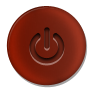
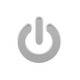
image updates
gestures

diff --git a/Resources/views/gesture.js b/Resources/views/gesture.js
@@ -18,8 +18,22 @@ Views.gesture = function(win) {
 		top:"0dp"
 	});
 	
+	var up_arrow_mask = Titanium.UI.createView({
+		backgroundImage:"images/gestures/gesture_arrow_up_down.png",
+		width:"30dp",
+		height:"135dp",
+		top:"0dp"
+	});
+	
 	var down_arrow = Titanium.UI.createView({
 		backgroundImage:"images/gestures/gesture_arrow_down.png",
+		width:"30dp",
+		height:"135dp",
+		bottom:"0dp"		
+	});
+	
+	var down_arrow_mask = Titanium.UI.createView({
+		backgroundImage:"images/gestures/gesture_arrow_down_down.png",
 		width:"30dp",
 		height:"135dp",
 		bottom:"0dp"		
@@ -32,8 +46,22 @@ Views.gesture = function(win) {
 		left:"0dp"		
 	});
 	
+	var left_arrow_mask = Titanium.UI.createView({
+		backgroundImage:"images/gestures/gesture_arrow_left_down.png",
+		height:"30dp",
+		width:"135dp",
+		left:"0dp"		
+	});
+	
 	var right_arrow = Titanium.UI.createView({
 		backgroundImage:"images/gestures/gesture_arrow_right.png",
+		height:"30dp",
+		width:"135dp",
+		right:"0dp"
+	});
+	
+	var right_arrow_mask = Titanium.UI.createView({
+		backgroundImage:"images/gestures/gesture_arrow_right_down.png",
 		height:"30dp",
 		width:"135dp",
 		right:"0dp"
@@ -121,6 +149,11 @@ Views.gesture = function(win) {
 	}
 	
 	arrows.addEventListener('doubletap', function () {
+		animateGesture(up_arrow_mask);
+		animateGesture(down_arrow_mask);
+		animateGesture(left_arrow_mask);
+		animateGesture(right_arrow_mask);
+		
 		return Controllers.remote.button("select")();
 	});
 	
@@ -144,18 +177,27 @@ Views.gesture = function(win) {
 		}
 	}
 	
+	function animateGesture(arrow_mask) {
+		arrows.add(arrow_mask);
+		arrow_mask.animate({opacity:0,duration:1000}, function() {
+			arrows.remove(arrow_mask);
+			arrow_mask.opacity = 1;
+		});	
+	}
+	
 	function doGesture () {
 		
 		var x_diff = touch_x_stop - touch_x_start;
 		var y_diff = touch_y_stop - touch_y_start;
 		
 		if (underThreshold(y_diff) && !diffPositive(x_diff) && shortSwipe(x_diff)) {
+			animateGesture(left_arrow_mask);
 			return Xbmc.action("left")();
 		}
 		
 		if (underThreshold(y_diff) && !diffPositive(x_diff) && !shortSwipe(x_diff)) {
 			// return Xbmc.action("left")();
-			
+			animateGesture(left_arrow_mask);
 			function doThreeLeft () {
 				setTimeout(Xbmc.action("left"), 1);
 	      setTimeout(Xbmc.action("left"), 250);
@@ -165,11 +207,13 @@ Views.gesture = function(win) {
 		}
 		
 		if (underThreshold(y_diff) && diffPositive(x_diff) && shortSwipe(x_diff)) {
+			animateGesture(right_arrow_mask);
 			return Xbmc.action("right")();
 		}		
 		
 		if (underThreshold(y_diff) && diffPositive(x_diff) && !shortSwipe(x_diff)) {
 			// return Xbmc.action("right")();
+			animateGesture(right_arrow_mask);
 			
 			function doThreeRight () {
 				setTimeout(Xbmc.action("right"), 1);
@@ -180,12 +224,14 @@ Views.gesture = function(win) {
 		}
 		
 		if (underThreshold(x_diff) && !diffPositive(y_diff) && shortSwipe(y_diff)) {
+			animateGesture(up_arrow_mask);
 			return Xbmc.action("up")();
 		}
 		
 		if (underThreshold(x_diff) && !diffPositive(y_diff) && !shortSwipe(y_diff)) {
 			// return Xbmc.action("up")();
-			
+			animateGesture(up_arrow_mask);
+						
 			function doThreeUp () {
 				setTimeout(Xbmc.action("up"), 1);
 	      setTimeout(Xbmc.action("up"), 250);
@@ -195,12 +241,14 @@ Views.gesture = function(win) {
 		}
 		
 		if (underThreshold(x_diff) && diffPositive(y_diff) && shortSwipe(y_diff)) {
+			animateGesture(down_arrow_mask);
 			return Xbmc.action("down")();
 		}
 		
 		if (underThreshold(x_diff) && diffPositive(y_diff) && !shortSwipe(y_diff)) {
 			// return Xbmc.action("down")();
-      function doThreeDown () {
+      animateGesture(down_arrow_mask);
+			function doThreeDown () {
 				setTimeout(Xbmc.action("down"), 1);
 	      setTimeout(Xbmc.action("down"), 250);
 	      setTimeout(Xbmc.action("down"), 500);

diff --git a/Resources/views/channels.js b/Resources/views/channels.js
@@ -2,6 +2,20 @@ Views.channels = function(win, favs) {
 	var editing;
 	var view = Titanium.UI.createView({top: "30dp"});
 	
+	var search = Titanium.UI.createButton({
+		backgroundImage:'images/remote_view/remote_mag.png',
+		height:"40dp",
+		width:"40dp",
+		top:"1dp",
+		left:"1dp"
+	});
+	
+	search.addEventListener('click', function() {
+		App.action(win, "searches#index");
+	});
+
+	
+	
 	var home_button = Titanium.UI.createButton({
 		backgroundImage:'images/remote_view/remote_home.png',
 		backgroundSelectedImage:'images/remote_view/remote_home_down.png',
@@ -13,35 +27,35 @@ Views.channels = function(win, favs) {
 	
 	home_button.addEventListener('click', Xbmc.action('menu'));
 	
-	var keyboard_field = Helpers.ui.keyboard();
+	// var keyboard_field = Helpers.ui.keyboard();
+	// 
+	// var keyboard_button = Titanium.UI.createButton({
+	// 	backgroundImage:'images/channel_view/channel_keyboard.png',
+	// 	backgroundSelectedImage:'images/channel_view/channel_keyboard_down.png',
+	// 	height:"40dp",
+	// 	width:"60dp",
+	// 	top:"1dp",
+	// 	left:"10dp"
+	// });	
 	
-	var keyboard_button = Titanium.UI.createButton({
-		backgroundImage:'images/channel_view/channel_keyboard.png',
-		backgroundSelectedImage:'images/channel_view/channel_keyboard_down.png',
-		height:"40dp",
-		width:"60dp",
-		top:"1dp",
-		left:"10dp"
-	});	
-	
-	keyboard_button.addEventListener('click', function(){
-		keyboard_field.focus();
-	});
-	
-	if(Helpers.Application.isAndroid()) {
-		keyboard_field.addEventListener('return', function() {
-			keyboard_field2.focus();
-		});
-	};
-	
-	var keyboard_field2 = Titanium.UI.createTextField({  
-	  width:0,
-	  height:0,
-		top:0,
-		autocorrect:false,
-	  keyboardType:Titanium.UI.KEYBOARD_DEFAULT,
-	  returnKeyType:Titanium.UI.RETURNKEY_DONE
-	});
+	// keyboard_button.addEventListener('click', function(){
+	// 	keyboard_field.focus();
+	// });
+	// 
+	// if(Helpers.Application.isAndroid()) {
+	// 	keyboard_field.addEventListener('return', function() {
+	// 		keyboard_field2.focus();
+	// 	});
+	// };
+	// 
+	// var keyboard_field2 = Titanium.UI.createTextField({  
+	//   width:0,
+	//   height:0,
+	// 	top:0,
+	// 	autocorrect:false,
+	//   keyboardType:Titanium.UI.KEYBOARD_DEFAULT,
+	//   returnKeyType:Titanium.UI.RETURNKEY_DONE
+	// });
 	
 	var channel_favorites = Titanium.UI.createButton({
 		backgroundImage:'images/channel_view/channel_fav.png',
@@ -66,10 +80,11 @@ Views.channels = function(win, favs) {
 
 	channel_favorites.addEventListener('click', toggleFavoriteMode);
 	
+	win.add(search);
 	win.add(home_button);
-	win.add(keyboard_field2);
-	win.add(keyboard_field);
-	win.add(keyboard_button);
+	// win.add(keyboard_field2);
+	// win.add(keyboard_field);
+	// win.add(keyboard_button);
 	win.add(channel_favorites);
 	win.add(view);
 	

diff --git a/Resources/views/play_controls.js b/Resources/views/play_controls.js
@@ -2,7 +2,7 @@ Views.play_controls = function(win) {
 	
 	var view = Titanium.UI.createView({
 		height:"65dp",
-		width:"210dp",
+		width:"180dp",
 		top:"295dp"
 	});
 	
@@ -16,24 +16,34 @@ Views.play_controls = function(win) {
 	
 	rewind_button.addEventListener('click', Xbmc.action("reverse"));
 
-	var play_button = Titanium.UI.createButton({
-		backgroundImage:'images/playcontrols/remote_play.png',
-		backgroundSelectedImage:'images/playcontrols/remote_play_down.png',
-		height:"48dp",
-		width:"48dp",
-		left:"53dp"
+	// var play_button = Titanium.UI.createButton({
+	// 	backgroundImage:'images/playcontrols/remote_play.png',
+	// 	backgroundSelectedImage:'images/playcontrols/remote_play_down.png',
+	// 	height:"48dp",
+	// 	width:"48dp",
+	// 	left:"53dp"
+	// });
+	// 
+	// play_button.addEventListener('click', Xbmc.action("select"));
+	
+	var play_pause_button = Titanium.UI.createButton({
+		backgroundImage:'images/playcontrols/remote_play_pause.png',
+		backgroundSelectedImage:'images/playcontrols/remote_play_pause.png',
+		height:"42dp",
+		width:"58dp",
+		// left:"53dp"
 	});
 	
-	play_button.addEventListener('click', Xbmc.action("select"));
+	play_pause_button.addEventListener('click', Xbmc.action("select"));
 	
-	var pause_button = Titanium.UI.createButton({
-		backgroundImage:'images/playcontrols/remote_pause.png',
-		height:"48dp",
-		width:"48dp",
-		right:"53dp"
-	});
-	
-	pause_button.addEventListener("click", Xbmc.action("pause"));
+	// var pause_button = Titanium.UI.createButton({
+	// 	backgroundImage:'images/playcontrols/remote_pause.png',
+	// 	height:"48dp",
+	// 	width:"48dp",
+	// 	right:"53dp"
+	// });
+	// 
+	// pause_button.addEventListener("click", Xbmc.action("pause"));
 	
 	var ff_button = Titanium.UI.createButton({
 		backgroundImage:'images/playcontrols/remote_ff.png',
@@ -46,8 +56,8 @@ Views.play_controls = function(win) {
 	ff_button.addEventListener("click", Xbmc.action("forward"));
 	
 	view.add(rewind_button);
-	view.add(play_button);
-	view.add(pause_button);
+	view.add(play_pause_button);
+	// view.add(pause_button);
 	view.add(ff_button);
 
 	win.add(view);

diff --git a/Resources/views/remote.js b/Resources/views/remote.js
@@ -1,16 +1,4 @@
 Views.remote = function(win) {	
-	
-	var search = Titanium.UI.createButton({
-		backgroundImage:'images/remote_view/remote_mag.png',
-		height:"40dp",
-		width:"40dp",
-		top:"1dp",
-		left:"5dp"
-	});
-	
-	search.addEventListener('click', function() {
-		App.action(win, "searches#index");
-	});
 
 	var channel_favorites = Titanium.UI.createButton({
 		backgroundImage:'images/channel_view/channel_fav.png',
@@ -52,9 +40,10 @@ Views.remote = function(win) {
 
 	var like_button = Titanium.UI.createButton({
 		backgroundImage:"images/nowplaying/remote_fblike.png",
+		backgroundSelectedImage:'images/nowplaying/remote_fblike_down.png',
 		height:"40dp",
 		width:"40dp",
-		top:"2dp",
+		top:"0dp",
 		right:"15dp"
 	});
 	
@@ -89,10 +78,10 @@ Views.remote = function(win) {
 	var power_button = Titanium.UI.createButton({
 		backgroundImage:'images/remote_view/remote_powerbtn.png',
 		backgroundSelectedImage:'images/remote_view/remote_powerbtn_down.png',
-		height:"46dp",
-		width:"46dp",
-		top:"45dp",
-		left:"15dp"
+		height:"40dp",
+		width:"40dp",
+		top:"0dp",
+		left:"2dp"
 	});
 	
 	power_button.addEventListener('click', function() {
@@ -233,8 +222,8 @@ Views.remote = function(win) {
 		backgroundSelectedImage:'images/remote_view/remote_bluebtn_down.png',
 		height:"38dp",
 		width:"38dp",
-		left:"105dp",
-		bottom:"2dp"
+		right:"33dp",
+		bottom:"14dp"		
 	});
 
 	var green_button = Titanium.UI.createButton({
@@ -242,7 +231,7 @@ Views.remote = function(win) {
 		backgroundSelectedImage:'images/remote_view/remote_greenbtn_down.png',
 		height:"38dp",
 		width:"38dp",
-		right:"105dp",
+		left:"105dp",
 		bottom:"2dp"
 	});
 
@@ -251,13 +240,12 @@ Views.remote = function(win) {
 		backgroundSelectedImage:'images/remote_view/remote_yellowbtn_down.png',
 		height:"38dp",
 		width:"38dp",
-		right:"33dp",
-		bottom:"14dp"
+		right:"105dp",
+		bottom:"2dp"
 	});
 
 	Views.play_controls(win);
 	
-	win.add(search);
 	win.add(channel_favorites);
 	win.add(home_button);
 	win.add(return_button);
